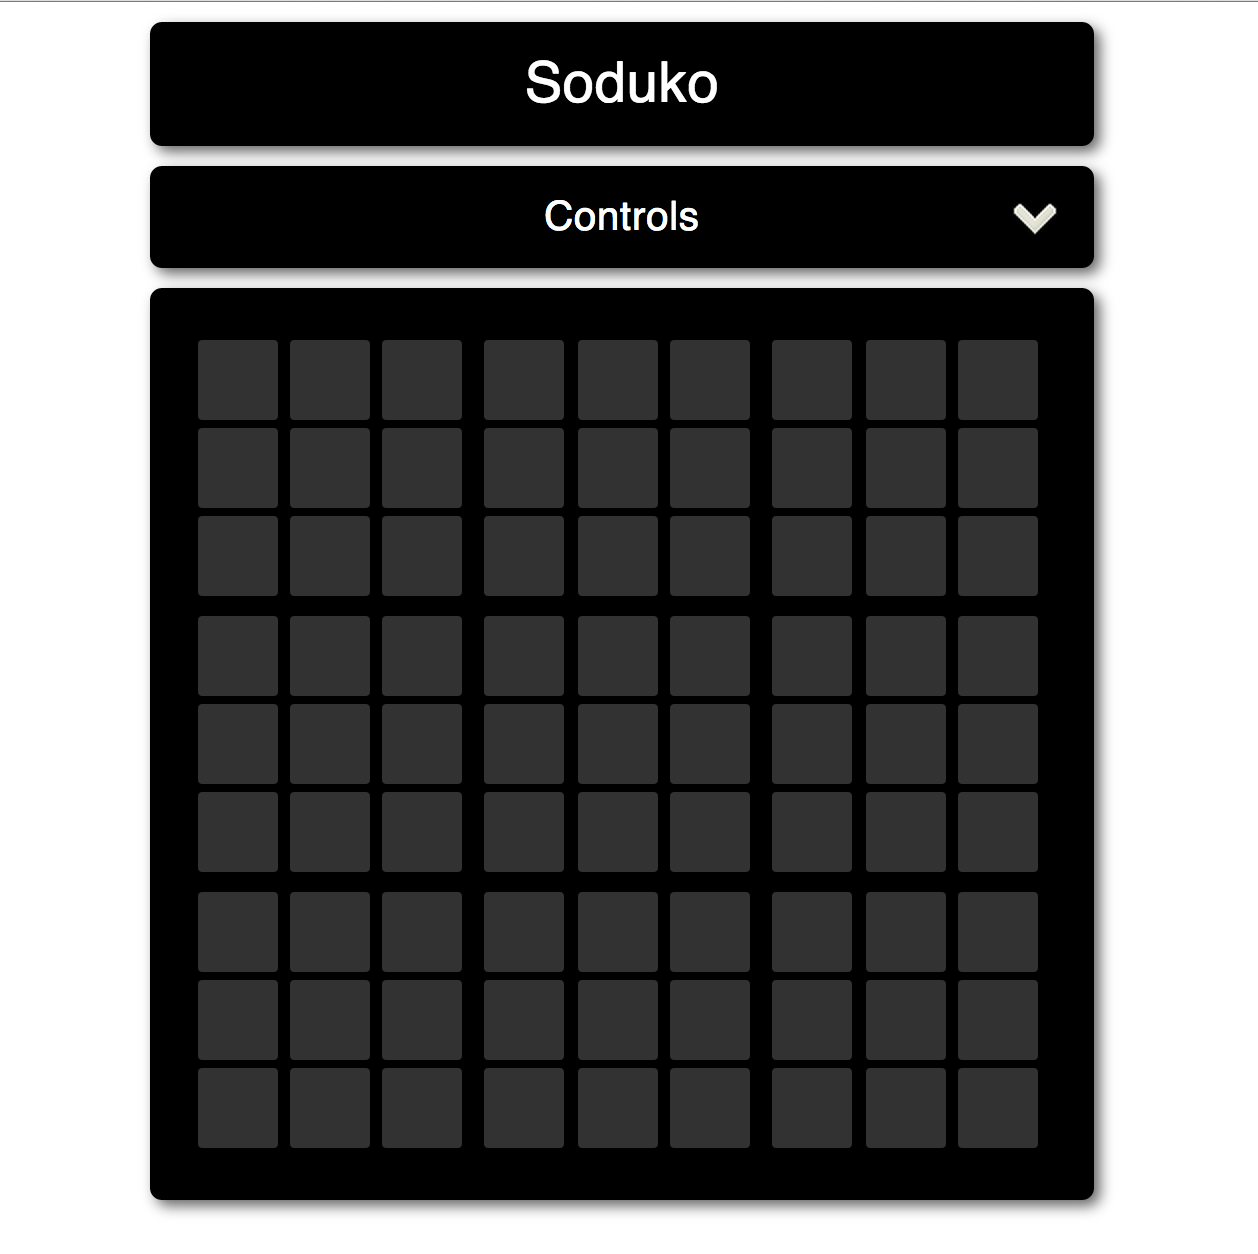
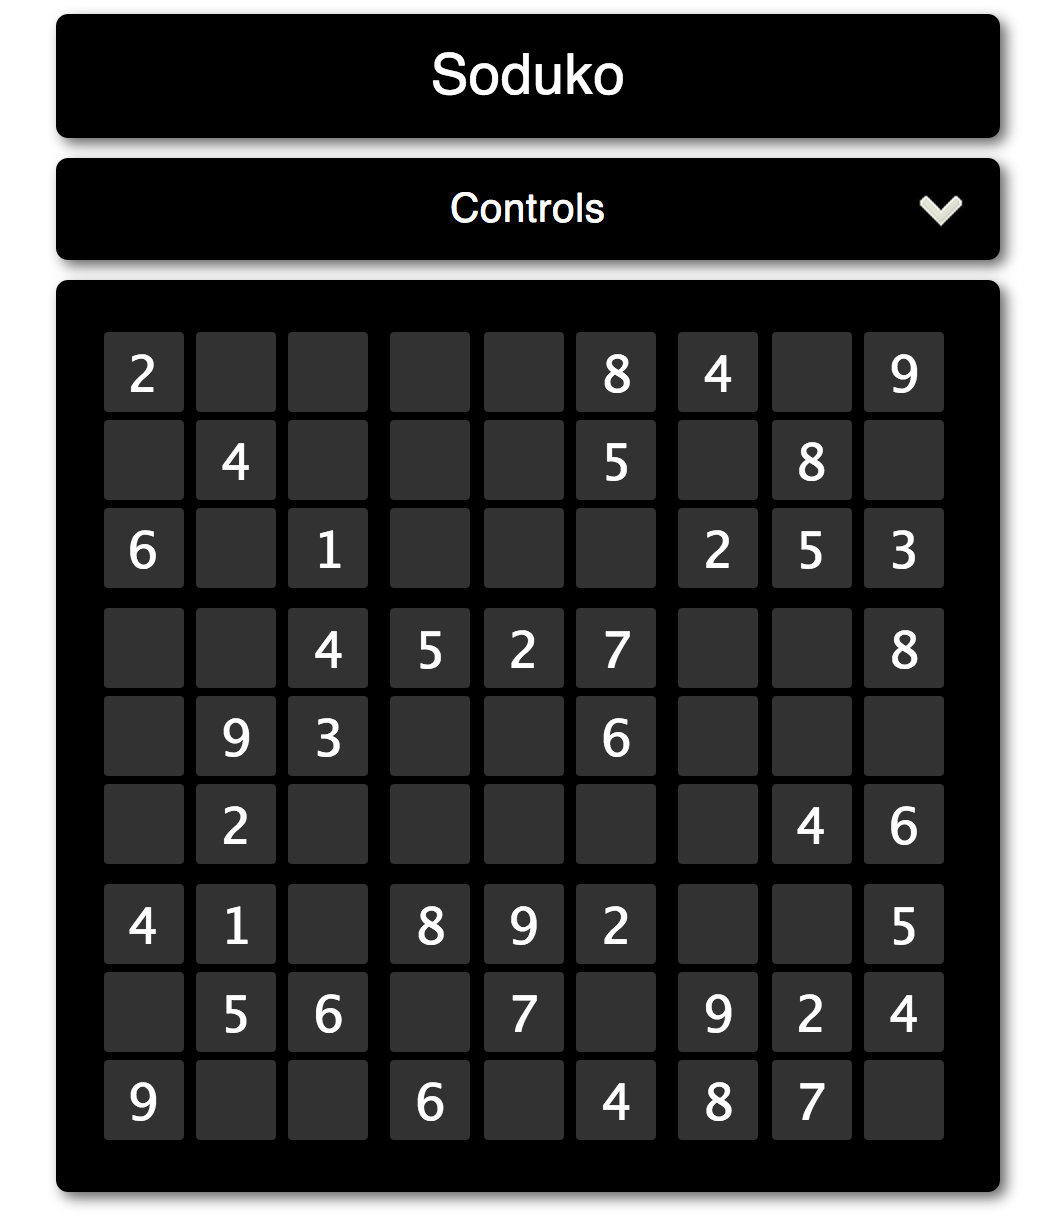
added gitignore file and updated screenshot

diff --git a/README.md b/README.md
@@ -5,6 +5,7 @@
 * [Screenshot](#screenshot)
 * [General Description](#general-description)
 * [What is Soduko](#what-is-soduko)
+* [See it Live on Heroku](#see-it-live-on-heroku)
 * [Browsers](#browsers)
 * [Testing](#testing)
 * [License](#license)
@@ -44,6 +45,16 @@ Here's a brief description of the game:
 > \* The grid contians 9 so-called 'boxes', that is 3x3 sub-grids within the general grid.
 
 (Source: [Wikipedia on Sudoku](http://en.wikipedia.org/wiki/Sudoku))
+
+
+##See it Live on Heroku
+
+A live version of the game can be found (and played!) at:
+
+[Sudoku on Heroku](http://makers-sudoku-web.herokuapp.com/)
+
+As I'm using Heroku's free hosting service, the app may take a bit of time to upload<br/>
+(Heroku's giros take time to wake up...), so please be patient.
 
 
 ##Browsers
